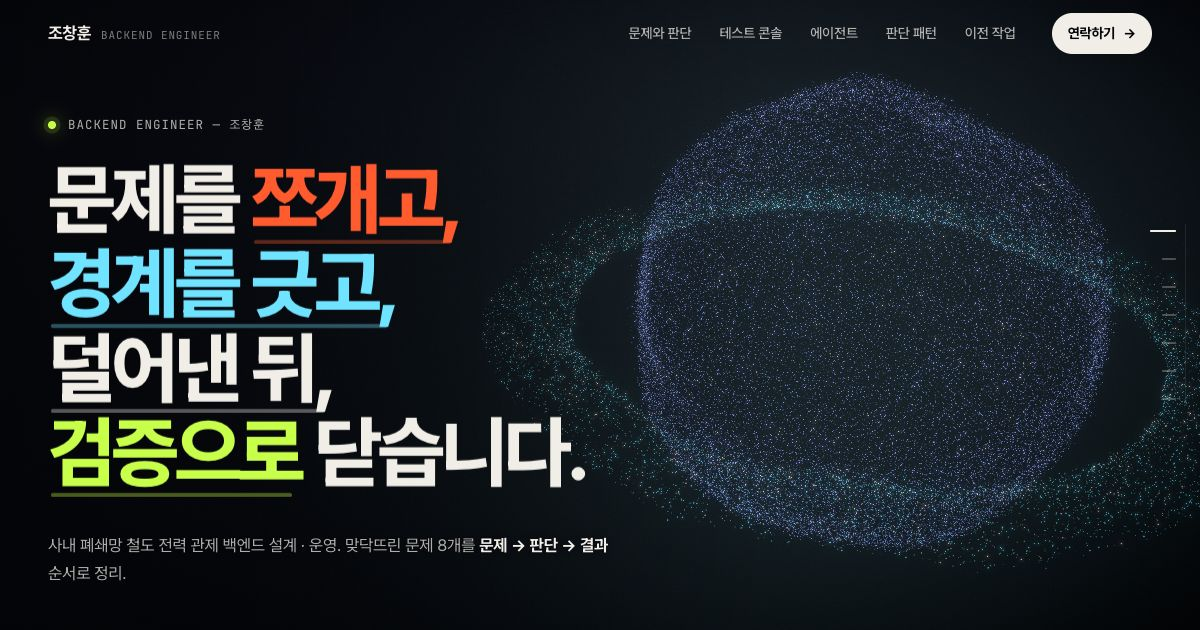
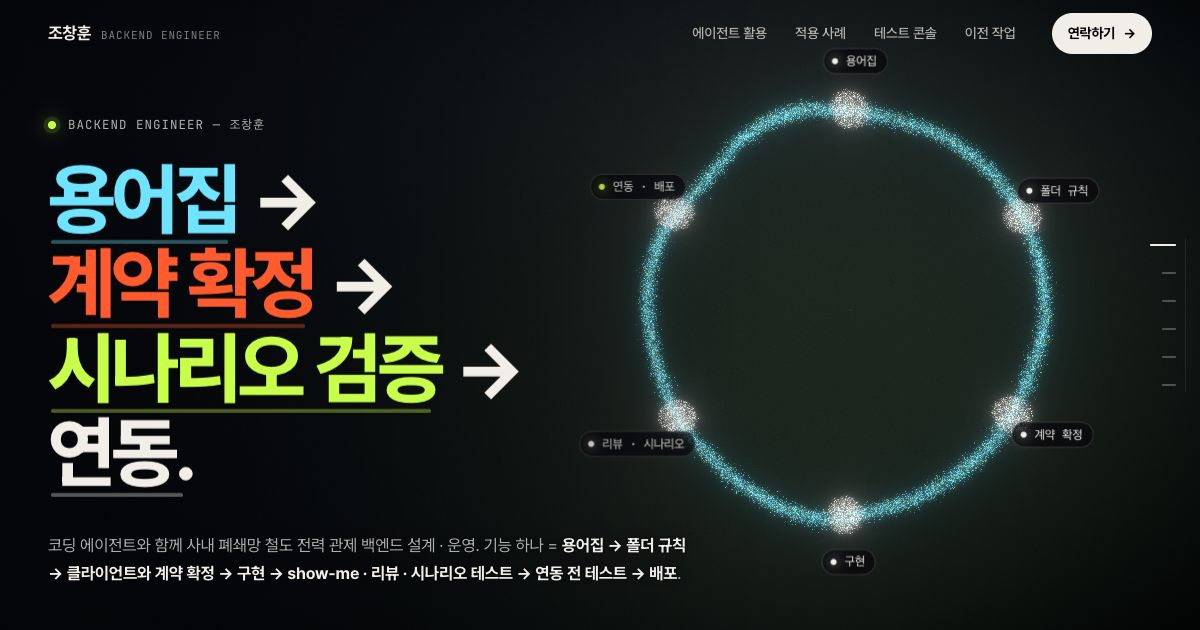
content: 메인을 기능 구현 워크플로 중심으로 변경
- 히어로 제목: 용어집 → 계약 확정 → 시나리오 검증 → 연동, 첫 화면 3D를 워크플로 링으로
- 에이전트 작업 순서 6단계를 실제 워크플로로 교체(show-me 변경점 확인 포함)
- 히어로 단계 hover 시 링에서 해당 단계 매듭 확대
- OG 이미지 재캡처

diff --git a/index.html b/index.html
@@ -3,7 +3,7 @@
   <head>
     <meta charset="utf-8" />
     <meta name="viewport" content="width=device-width, initial-scale=1, viewport-fit=cover" />
-    <title>조창훈 — 쪼개고, 경계 짓고, 검증하는 백엔드 개발자</title>
+    <title>조창훈 — 용어집 → 계약 → 검증 → 연동, 코딩 에이전트와 일하는 백엔드 개발자</title>
     <meta
       name="description"
       content="사내 폐쇄망 철도 전력 관제 백엔드에서 맞닥뜨린 문제 8개(무중단 배포, 실시간 동기화, 재시도, 업로드 부하, 상태 해석, 아키텍처 규칙, 테스트 콘솔, 코딩 에이전트)와 각 문제에서 내린 판단, 결과를 정리한 백엔드 개발자 조창훈의 포트폴리오."
@@ -14,7 +14,7 @@
     <meta property="og:type" content="website" />
     <meta property="og:locale" content="ko_KR" />
     <meta property="og:site_name" content="조창훈 포트폴리오" />
-    <meta property="og:title" content="조창훈 — 문제를 쪼개고, 경계를 긋고, 검증으로 닫는 백엔드 개발자" />
+    <meta property="og:title" content="조창훈 — 용어집 → 계약 → 검증 → 연동, 코딩 에이전트와 일하는 백엔드 개발자" />
     <meta
       property="og:description"
       content="폐쇄망 관제 백엔드에서 맞닥뜨린 문제와 내린 판단, 결과. 무중단 배포, 상태 수렴형 SSE 동기화, 멱등 재시도, 평문 없는 파일 파이프라인, 테스트 콘솔, 코딩 에이전트."
@@ -80,19 +80,19 @@
 
     <main id="main">
       <!-- ───────────────────────── HERO ───────────────────────── -->
-      <section id="top" class="hero" data-shape="planet" data-side="right" data-dim="1" data-dim-m="0.85" data-chapter="top">
+      <section id="top" class="hero" data-shape="agent" data-side="right" data-dim="1" data-dim-m="0.85" data-chapter="top">
         <div class="hero__inner">
           <p class="kicker"><span class="kicker__dot"></span>BACKEND ENGINEER — 조창훈</p>
           <h1 class="hero__title" data-hero-title>
-            <span class="hero__line">문제를 <em class="verb verb--split" data-preview="split" tabindex="0">쪼개고,</em></span>
-            <span class="hero__line"><em class="verb verb--bound" data-preview="bound" tabindex="0">경계를 긋고,</em></span>
-            <span class="hero__line"><em class="verb verb--subtract" data-preview="subtract" tabindex="0">덜어낸 뒤,</em></span>
-            <span class="hero__line"><em class="verb verb--loop" data-preview="loop" tabindex="0">검증으로</em> 닫습니다.</span>
+            <span class="hero__line"><em class="verb verb--bound" data-preview="glossary" tabindex="0">용어집</em> →</span>
+            <span class="hero__line"><em class="verb verb--split" data-preview="contract" tabindex="0">계약 확정</em> →</span>
+            <span class="hero__line"><em class="verb verb--loop" data-preview="scenario" tabindex="0">시나리오 검증</em> →</span>
+            <span class="hero__line"><em class="verb verb--subtract" data-preview="integration" tabindex="0">연동.</em></span>
           </h1>
           <p class="hero__lead" data-reveal>
-            사내 폐쇄망 철도 전력 관제 백엔드를 코딩 에이전트와 함께 설계 · 운영. <b>에이전트를 실 프로젝트에 붙인 방식</b>과, 그 방식으로 푼 문제 8개.
+            코딩 에이전트와 함께 사내 폐쇄망 철도 전력 관제 백엔드 설계 · 운영. 기능 하나 = <b>용어집 → 폴더 규칙 → 클라이언트와 계약 확정 → 구현 → show-me · 리뷰 · 시나리오 테스트 → 연동 전 테스트 → 배포</b>.
           </p>
-          <p class="hero__hint" data-reveal><span aria-hidden="true">↳</span> 강조된 동사에 마우스 → 파티클 모양 변화</p>
+          <p class="hero__hint" data-reveal><span aria-hidden="true">↳</span> 강조된 단계에 마우스 → 링에서 그 단계가 커짐</p>
         </div>
 
         <dl class="stats" data-reveal-group>
@@ -144,14 +144,14 @@
         </header>
 
         <div class="pipeline" data-shape="agent" data-side="right" data-dim="0.95">
-          <p class="part">판단 · 작업 순서</p>
+          <p class="part">판단 · 기능 구현 순서</p>
           <ol class="pipeline__list" data-pipeline>
-            <li><b>계약 확정</b><span>구현 착수 조건 = API · 권한 · UX 미결정 사항 0(인터뷰로 확정). 남은 공백 = 추측의 출발점</span></li>
-            <li><b>흐름표</b><span>요청 → 권한 · lock → DB 변경 → side effect → 응답 · 에러를 한글 의사코드로. 의사코드 단계에서 이해 검증</span></li>
-            <li><b>영향 조사</b><span>호출자 전체, read · write path, 스케줄러 · 알림 · 캐시 · 트랜잭션 side effect. 같은 상태 기준의 형제 경로 함께 수정</span></li>
-            <li><b>실패 테스트 먼저</b><span>“다 됐습니다” 보고 대신 빨간 테스트 → 초록 확인</span></li>
-            <li><b>구현 · 스모크</b><span>실제로 띄운 서버에서 프론트 호출 순서를 시나리오 테스트로 재연</span></li>
-            <li><b>검증 보고</b><span>실행 명령 · 결과 · 미검증 범위. 검증 못 한 것은 “해결됨” 대신 “미검증”</span></li>
+            <li><b>용어집</b><span>mattpocock skills의 domain-modeling으로 서비스 용어부터 정리(GLOSSARY.md · ADR). 사람 · 에이전트 · 클라이언트가 같은 단어 사용</span></li>
+            <li><b>폴더 규칙</b><span>폴더 구조 우선 설계, 폴더 · 파일마다 책임 규칙 고정. 문제가 터진 위치 = 에이전트가 볼 파일</span></li>
+            <li><b>계약 확정</b><span>이슈 발행 → 첫 구현이면 요청 · 응답 · API 초안을 클라이언트와 협의 → 문제 발견 시 설계 수정 후 구현 착수</span></li>
+            <li><b>구현</b><span>확정 계약대로 이슈 단위 구현. 흐름표(한글 의사코드) · 영향 조사로 범위 확인</span></li>
+            <li><b>리뷰 · 시나리오</b><span>show-me로 변경점(diff · 호출 흐름 · 화면)을 눈으로 확인, code-review 스킬로 리뷰, Playwright로 실제 사용자 시나리오 테스트</span></li>
+            <li><b>연동 · 배포</b><span>테스트 콘솔(Flow Lab)로 클라이언트 연동 전 연동 · 실사용 테스트 → 클라이언트 연동 → 서버 반영. 연동 후 수정 최소화</span></li>
           </ol>
           <p class="result"><b>결과</b> 지시 단위: “이 파일 고쳐줘” → “이 이슈 구현해줘”</p>
         </div>
@@ -293,7 +293,7 @@
               <a href="#agents" data-cursor="보기">
                 <span class="problems__n">08</span>
                 <b class="problems__q">계약 공백을 에이전트가 추측으로 채우는 문제</b>
-                <span class="problems__a">프롬프트 요령 대신 계약 · 가드레일 · 검증 루프를 저장소에 고정</span>
+                <span class="problems__a">용어집 → 폴더 규칙 → 계약 확정 → 구현 → show-me · 리뷰 · 시나리오 테스트 → 연동 전 테스트</span>
                 <span class="problems__r">지시 단위: 파일 수정 → 이슈 구현</span>
               </a>
             </li>

diff --git a/src/gl/shapes.ts b/src/gl/shapes.ts
@@ -1,6 +1,20 @@
 import { Vector3 } from 'three'
 
-export type ShapeName = 'planet' | 'split' | 'bound' | 'subtract' | 'loop' | 'grid' | 'console' | 'agent' | 'constellation'
+export type ShapeName =
+  | 'planet'
+  | 'split'
+  | 'bound'
+  | 'subtract'
+  | 'loop'
+  | 'grid'
+  | 'console'
+  | 'agent'
+  | 'constellation'
+  | AgentFocus
+
+/** Hero verbs: the agent loop with one step's knot swollen. Values are AGENT_STEPS indexes. */
+const AGENT_FOCUS = { glossary: 0, contract: 2, scenario: 4, integration: 5 } as const
+type AgentFocus = keyof typeof AGENT_FOCUS
 
 export type Tone = 'ice' | 'ember' | 'acid' | 'white'
 
@@ -401,14 +415,14 @@ function consoleAnchors(): Anchor[] {
 }
 
 // ── agent: the six-step loop, knots stay put while the ring flows ──
-const AGENT_STEPS = ['계약 확정', '흐름표', '영향 조사', '실패 테스트', '구현 · 스모크', '검증 보고']
+const AGENT_STEPS = ['용어집', '폴더 규칙', '계약 확정', '구현', '리뷰 · 시나리오', '연동 · 배포']
 const AGENT_R = 1.85
 
 function knotAngle(k: number) {
   return Math.PI / 2 - (k * Math.PI * 2) / AGENT_STEPS.length
 }
 
-function agent(count: number): Float32Array {
+function agent(count: number, focus = -1): Float32Array {
   const r = mulberry32(83)
   const w = new Writer(count)
   const nRing = Math.floor(count * 0.66)
@@ -420,10 +434,12 @@ function agent(count: number): Float32Array {
   const nKnots = Math.floor(count * 0.24)
   const v = new Vector3()
   for (let i = 0; i < nKnots; i++) {
-    const k = i % AGENT_STEPS.length
+    // A focused step takes half the knot particles and grows, so the hovered word reads as the loop's centre of weight.
+    const big = focus >= 0 && i % 2 === 0
+    const k = big ? focus : (focus >= 0 ? i >> 1 : i) % AGENT_STEPS.length
     const a = knotAngle(k)
-    unitVector(r, v).multiplyScalar(Math.cbrt(r()) * 0.17)
-    w.put(Math.cos(a) * AGENT_R + v.x, Math.sin(a) * AGENT_R + v.y, v.z, T.white)
+    unitVector(r, v).multiplyScalar(Math.cbrt(r()) * (big ? 0.42 : 0.17))
+    w.put(Math.cos(a) * AGENT_R + v.x, Math.sin(a) * AGENT_R + v.y, v.z, T.white) // white knots stay put under spin
   }
   while (w.left > 0) {
     const a = r() * Math.PI * 2
@@ -433,11 +449,11 @@ function agent(count: number): Float32Array {
   return sortSpatially(w.data, count)
 }
 
-function agentAnchors(): Anchor[] {
+function agentAnchors(focus = AGENT_STEPS.length - 1): Anchor[] {
   return AGENT_STEPS.map((text, k) => {
     const a = knotAngle(k)
-    const R = AGENT_R + 0.42
-    return anchor(Math.cos(a) * R, Math.sin(a) * R, 0, text, k === AGENT_STEPS.length - 1 ? 'acid' : 'white')
+    const R = AGENT_R + (k === focus ? 0.62 : 0.42)
+    return anchor(Math.cos(a) * R, Math.sin(a) * R, 0, text, k === focus ? 'acid' : 'white')
   })
 }
 
@@ -483,6 +499,14 @@ function constellationAnchors(): Anchor[] {
 }
 
 // ── registry ──
+function agentFocusShapes(count: number) {
+  const out = {} as Record<AgentFocus, Shape>
+  for (const [name, k] of Object.entries(AGENT_FOCUS) as [AgentFocus, number][]) {
+    out[name] = { name, data: agent(count, k), anchors: agentAnchors(k), spin: 0.16, glow: [0.6, 1.0, 0.5] }
+  }
+  return out
+}
+
 export function buildShapes(count: number): Record<ShapeName, Shape> {
   const p = planet(count)
   const ice: [number, number, number] = [0.43, 0.89, 1.0]
@@ -536,6 +560,7 @@ export function buildShapes(count: number): Record<ShapeName, Shape> {
     grid: { name: 'grid', data: grid(count), anchors: gridAnchors(), spin: 0, glow: [1.0, 0.45, 0.25] },
     console: { name: 'console', data: consoleShape(count), anchors: consoleAnchors(), spin: 0, glow: ice },
     agent: { name: 'agent', data: agent(count), anchors: agentAnchors(), spin: 0.16, glow: [0.6, 1.0, 0.5] },
+    ...agentFocusShapes(count),
     constellation: {
       name: 'constellation',
       data: constellation(count),
